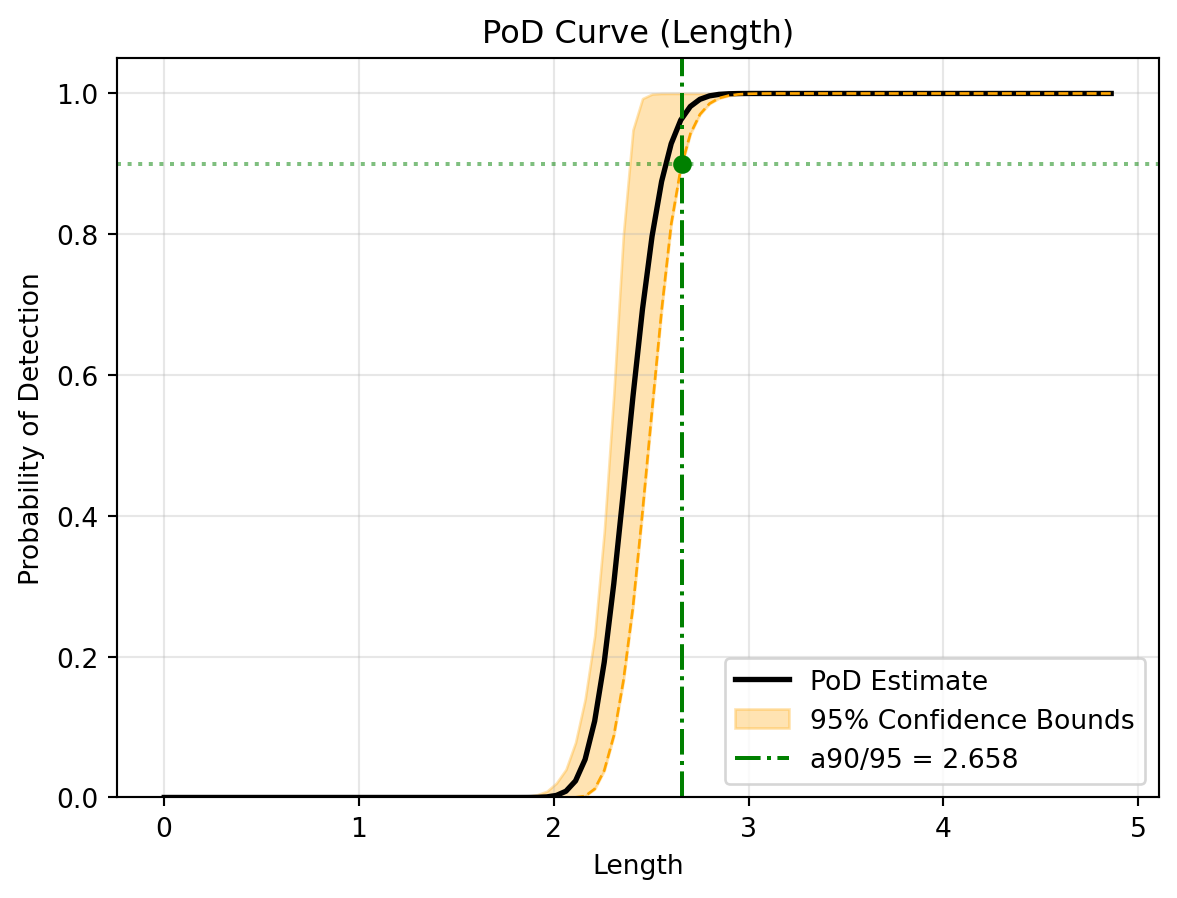
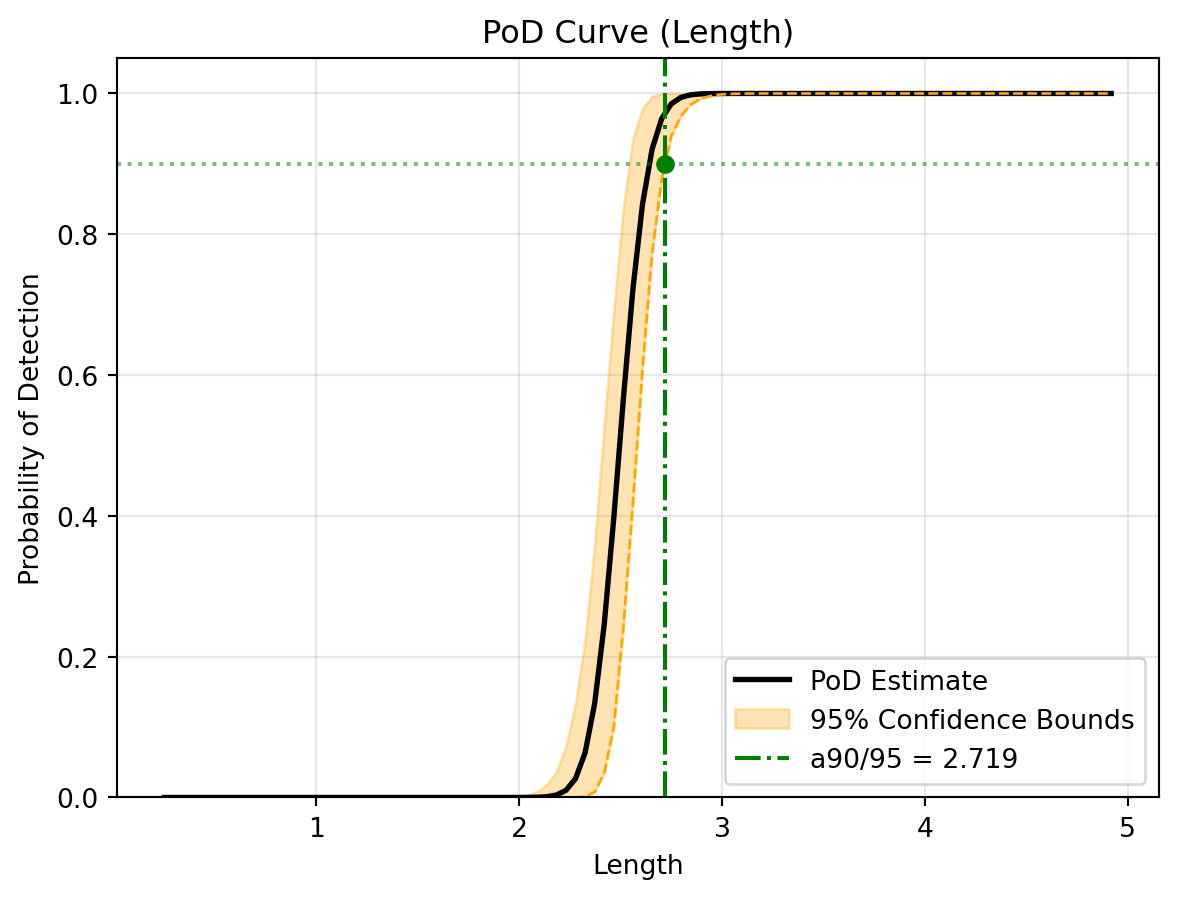
Built site for gh-pages

diff --git a/docs/optimisation.html b/docs/optimisation.html
@@ -212,6 +212,8 @@ pre > code.sourceCode > span > a:first-child::before { text-decoration: underlin
   <li><a href="#connecting-your-external-solver" id="toc-connecting-your-external-solver" class="nav-link" data-scroll-target="#connecting-your-external-solver">Connecting Your External Solver</a>
   <ul class="collapse">
   <li><a href="#the-wrapper-concept" id="toc-the-wrapper-concept" class="nav-link" data-scroll-target="#the-wrapper-concept">The “Wrapper” Concept</a></li>
+  <li><a href="#key-features" id="toc-key-features" class="nav-link" data-scroll-target="#key-features">Key Features</a></li>
+  <li><a href="#core-loop" id="toc-core-loop" class="nav-link" data-scroll-target="#core-loop">Core Loop</a></li>
   </ul></li>
   <li><a href="#the-auto-pilot-workflow" id="toc-the-auto-pilot-workflow" class="nav-link" data-scroll-target="#the-auto-pilot-workflow">The Auto-Pilot Workflow</a>
   <ul class="collapse">
@@ -273,13 +275,26 @@ pre > code.sourceCode > span > a:first-child::before { text-decoration: underlin
 <section id="the-wrapper-concept" class="level3">
 <h3 class="anchored" data-anchor-id="the-wrapper-concept">The “Wrapper” Concept</h3>
 <p>Most heavy physics solvers don’t natively read and write CSVs in exactly the way DigiQual expects. In real life, you will usually write a small “wrapper script” (e.g., <code>run_my_model.py</code> or <code>run_my_model.bat</code>). See <a href="#sec-appendix">Appendix</a> for full examples python and MATLAB.</p>
+</section>
+<section id="key-features" class="level3">
+<h3 class="anchored" data-anchor-id="key-features">Key Features</h3>
+<ul>
+<li><p><strong>Batch Processing:</strong> A critical detail is that the <code>{input}</code> CSV does not contain just one simulation point. It contains an <strong>entire batch</strong> of points (determined by <code>n_start</code> or <code>n_step</code>). Your wrapper script must loop over each row in the CSV, execute the solver for that set of inputs, record the result, and finally save all results to the <code>{output}</code> CSV.</p></li>
+<li><p><strong>Handling Failures (Graveyard):</strong> If the external solver crashes or fails to converge for a specific input row, your wrapper should leave the outcome column blank (or insert <code>NaN</code>) for that row. DigiQual will detect this and automatically add those coordinates to a “graveyard”, ensuring it never tries to sample that exact region again!</p></li>
+</ul>
+</section>
+<section id="core-loop" class="level3">
+<h3 class="anchored" data-anchor-id="core-loop">Core Loop</h3>
 <p>Your wrapper script’s job is to:</p>
 <ol type="1">
 <li>Read the DigiQual <code>{input}</code> CSV.</li>
+<li><strong>Loop</strong> over every row (each row is one simulation design point). For each row:
+<ul>
 <li>Modify your solver’s native input deck (e.g., updating parameters in an Ansys <code>.mac</code> file).</li>
 <li>Trigger the actual solver in headless/batch mode.</li>
-<li>Extract the results (e.g., the signal or stress value) from the solver’s output files.</li>
-<li>Save a clean CSV to the <code>{output}</code> path with the original inputs and the new outcome column appended.</li>
+<li>Extract the results (e.g., the signal or stress value). If it fails, record <code>NaN</code>.</li>
+</ul></li>
+<li>Save a clean CSV to the <code>{output}</code> path containing the <strong>exact original input columns</strong> with the new outcome column appended.</li>
 </ol>
 </section>
 </section>
@@ -290,7 +305,7 @@ pre > code.sourceCode > span > a:first-child::before { text-decoration: underlin
 <h3 class="anchored" data-anchor-id="define-a-mock-solver">1. Define a “Mock” Solver</h3>
 <p>For this tutorial, we will use a Python one-liner as our “solver” instead of a complex physics engine. We use <code>python -c</code> to run this as if it were an external Command Line Interface (CLI) tool.</p>
 <p>Notice how the <code>SOLVER_CMD</code> utilises the <code>{input}</code> and <code>{output}</code> placeholders.</p>
-<div id="5d57a6f5" class="cell" data-execution_count="1">
+<div id="cf266ce7" class="cell" data-execution_count="1">
 <div class="code-copy-outer-scaffold"><div class="sourceCode cell-code" id="cb1"><pre class="sourceCode python code-with-copy"><code class="sourceCode python"><span id="cb1-1"><a href="#cb1-1" aria-hidden="true" tabindex="-1"></a><span class="im">import</span> sys</span>
 <span id="cb1-2"><a href="#cb1-2" aria-hidden="true" tabindex="-1"></a></span>
 <span id="cb1-3"><a href="#cb1-3" aria-hidden="true" tabindex="-1"></a><span class="co"># A complex, non-linear physics model to trigger multiple optimisation loops</span></span>
@@ -306,7 +321,7 @@ pre > code.sourceCode > span > a:first-child::before { text-decoration: underlin
 <section id="configure-the-study" class="level3">
 <h3 class="anchored" data-anchor-id="configure-the-study">2. Configure the Study</h3>
 <p>We define our input variables and the ranges we want to explore.</p>
-<div id="3ed751ef" class="cell" data-execution_count="2">
+<div id="af20290f" class="cell" data-execution_count="2">
 <div class="code-copy-outer-scaffold"><div class="sourceCode cell-code" id="cb2"><pre class="sourceCode python code-with-copy"><code class="sourceCode python"><span id="cb2-1"><a href="#cb2-1" aria-hidden="true" tabindex="-1"></a><span class="im">from</span> digiqual.core <span class="im">import</span> SimulationStudy</span>
 <span id="cb2-2"><a href="#cb2-2" aria-hidden="true" tabindex="-1"></a></span>
 <span id="cb2-3"><a href="#cb2-3" aria-hidden="true" tabindex="-1"></a><span class="co"># Define inputs ranges</span></span>
@@ -320,13 +335,13 @@ pre > code.sourceCode > span > a:first-child::before { text-decoration: underlin
 <h3 class="anchored" data-anchor-id="run-optimisation">3. Run Optimisation</h3>
 <p>This single command handles the entire Active Learning loop:</p>
 <ol type="1">
-<li>Generates 20 initial LHS points (because <code>study.data</code> is currently empty).</li>
-<li>Runs the solver command, passing the temporary input and output file paths.</li>
-<li>Checks diagnostics to see if the data is sufficient.</li>
-<li>If needed, generates up to 10 new points targeting weak areas and repeats (up to 5 times).</li>
-<li>Checks the elapsed time against <code>max_hours</code> to ensure the loop stops safely if the physical time limit is reached.</li>
+<li><strong>Initialisation:</strong> Generates an initial batch of 20 LHS points (<code>n_start=20</code>) and passes them via <code>{input}</code> to your solver command.</li>
+<li><strong>Execution:</strong> Runs the solver command, passing the temporary input and output file paths.</li>
+<li><strong>Diagnostics (Sense):</strong> Checks statistical diagnostics to see if the data coverage and model accuracy are sufficient.</li>
+<li><strong>Refinement (Decide &amp; Act):</strong> If diagnostics fail, generates a targeted batch of 10 new points (<code>n_step=10</code>) focusing on weak areas and repeats the loop (up to <code>max_iter=5</code> times).</li>
+<li><strong>Safety Stop:</strong> Checks the elapsed time against <code>max_hours</code> to ensure the loop stops safely if the physical time limit is reached.</li>
 </ol>
-<div id="68de4d72" class="cell" data-execution_count="3">
+<div id="9c701e21" class="cell" data-execution_count="3">
 <div class="code-copy-outer-scaffold"><div class="sourceCode cell-code" id="cb3"><pre class="sourceCode python code-with-copy"><code class="sourceCode python"><span id="cb3-1"><a href="#cb3-1" aria-hidden="true" tabindex="-1"></a>study.optimise(</span>
 <span id="cb3-2"><a href="#cb3-2" aria-hidden="true" tabindex="-1"></a>    command<span class="op">=</span>SOLVER_CMD,</span>
 <span id="cb3-3"><a href="#cb3-3" aria-hidden="true" tabindex="-1"></a>    ranges<span class="op">=</span>ranges,</span>
@@ -352,31 +367,19 @@ Diagnostics flagged issues. Initiating Active Learning...
 
 --- Iteration 2: Diagnostics Check ---
 &gt;&gt; Model invalid. Refining design...
-Diagnostics flagged issues. Initiating Active Learning...
- -&gt; Strategy: Exploitation (Targeting high uncertainty regions)
---- Running Batch 2 (10 points) ---
-   -&gt; Executing: /Users/jt17630/Documents/DigiQual/.venv/bin/python3 -c 'import pandas as pd, numpy as np; df=pd.read_csv("sim_input.csv"); df["Signal"] = 5 + df["Length"] ** 3 + (df["Length"] * np.random.normal(0, 1, len(df))); df.to_csv("sim_output.csv", index=False)'
+All diagnostic checks passed. No new samples needed.
 
---- Iteration 3: Diagnostics Check ---
-&gt;&gt; Model invalid. Refining design...
-Diagnostics flagged issues. Initiating Active Learning...
- -&gt; Strategy: Exploitation (Targeting high uncertainty regions)
---- Running Batch 3 (10 points) ---
-   -&gt; Executing: /Users/jt17630/Documents/DigiQual/.venv/bin/python3 -c 'import pandas as pd, numpy as np; df=pd.read_csv("sim_input.csv"); df["Signal"] = 5 + df["Length"] ** 3 + (df["Length"] * np.random.normal(0, 1, len(df))); df.to_csv("sim_output.csv", index=False)'
-
---- Iteration 4: Diagnostics Check ---
-
-&gt;&gt;&gt; CONVERGENCE REACHED! &lt;&lt;&lt;
+&gt;&gt; Refinement algorithm converged (no new valid samples needed).
 
 ----------------------------------------
 &gt;&gt;&gt; SEARCH COMPLETE &lt;&lt;&lt;
-Total Time:      0.02 minutes
-Successful Runs: 50
+Total Time:      0.01 minutes
+Successful Runs: 30
 Failed Runs:     0 (in graveyard)
-Total Attempted: 50
+Total Attempted: 30
 ----------------------------------------
 
-Data updated. Total rows: 50</code></pre>
+Data updated. Total rows: 30</code></pre>
 </div>
 </div>
 </section>
@@ -391,19 +394,19 @@ Data updated. Total rows: 50</code></pre>
 <div aria-describedby="fig-optimisation-results-caption-0ceaefa1-69ba-4598-a22c-09a6ac19f8ca">
 <div class="quarto-layout-row">
 <div class="cell-output cell-output-stdout quarto-layout-cell" style="flex-basis: 100.0%;justify-content: flex-start;">
-<pre><code>Total Simulations Run: 50
+<pre><code>Total Simulations Run: 30
 Running validation...
-Validation passed. 50 valid rows ready.
+Validation passed. 30 valid rows ready.
 --- Starting Reliability Analysis (PoI: Length) ---
 1. Selecting Mean Model (Cross-Validation)...
 -&gt; Selected Model: Polynomial (Degree 3)
 2. Fitting Variance Model (Kernel Smoothing)...
-   -&gt; Smoothing Bandwidth: 0.4860
+   -&gt; Smoothing Bandwidth: 0.4670
 3. Inferring Error Distribution (AIC)...
    -&gt; Selected Distribution: norm
 4. Computing PoD Curve...
 5. Running Bootstrap (1000 iterations)...
-   -&gt; a90/95 Reliability Index: 2.658
+   -&gt; a90/95 Reliability Index: 2.719
 --- Analysis Complete ---</code></pre>
 </div>
 </div>
@@ -473,7 +476,7 @@ Figure&nbsp;1: Reliability Analysis Results
 <h3 class="anchored" data-anchor-id="example-a-connecting-a-custom-python-model">Example A: Connecting a Custom Python Model</h3>
 <p>Imagine you have an existing Python file (<code>beam_model.py</code>) that contains a complex physics function. You want DigiQual to optimise it.</p>
 <p><strong>1. The Existing Physics Solver (<code>beam_model.py</code>)</strong> This is your actual engineering code. It doesn’t know anything about CSVs or DigiQual.</p>
-<div id="9b481561" class="cell" data-execution_count="5">
+<div id="304ae8de" class="cell" data-execution_count="5">
 <div class="code-copy-outer-scaffold"><div class="sourceCode cell-code" id="cb7"><pre class="sourceCode python code-with-copy"><code class="sourceCode python"><span id="cb7-1"><a href="#cb7-1" aria-hidden="true" tabindex="-1"></a><span class="co"># beam_model.py</span></span>
 <span id="cb7-2"><a href="#cb7-2" aria-hidden="true" tabindex="-1"></a><span class="kw">def</span> simulate_beam(length, angle):</span>
 <span id="cb7-3"><a href="#cb7-3" aria-hidden="true" tabindex="-1"></a>    <span class="co">"""A complex, proprietary physics calculation."""</span></span>
@@ -482,7 +485,7 @@ Figure&nbsp;1: Reliability Analysis Results
 <span id="cb7-6"><a href="#cb7-6" aria-hidden="true" tabindex="-1"></a>    <span class="cf">return</span> signal_strength</span></code></pre></div><button title="Copy to Clipboard" class="code-copy-button"><i class="bi"></i></button></div>
 </div>
 <p><strong>2. The Wrapper Script (<code>python_wrapper.py</code>)</strong> This script acts as the bridge. It reads the CSV from the command line arguments, loops through the data to run the solver, and saves the result.</p>
-<div id="faa5a0bc" class="cell" data-execution_count="6">
+<div id="178c808a" class="cell" data-execution_count="6">
 <div class="code-copy-outer-scaffold"><div class="sourceCode cell-code" id="cb8"><pre class="sourceCode python code-with-copy"><code class="sourceCode python"><span id="cb8-1"><a href="#cb8-1" aria-hidden="true" tabindex="-1"></a><span class="co"># python_wrapper.py</span></span>
 <span id="cb8-2"><a href="#cb8-2" aria-hidden="true" tabindex="-1"></a><span class="im">import</span> sys</span>
 <span id="cb8-3"><a href="#cb8-3" aria-hidden="true" tabindex="-1"></a><span class="im">import</span> pandas <span class="im">as</span> pd</span>
@@ -511,7 +514,7 @@ Figure&nbsp;1: Reliability Analysis Results
 <span id="cb8-26"><a href="#cb8-26" aria-hidden="true" tabindex="-1"></a>    main()</span></code></pre></div><button title="Copy to Clipboard" class="code-copy-button"><i class="bi"></i></button></div>
 </div>
 <p><strong>3. The DigiQual Command</strong> In your main optimisation script, you define the <code>SOLVER_CMD</code> to call the Python wrapper, passing the placeholders as arguments.</p>
-<div id="7ec65cc7" class="cell" data-execution_count="7">
+<div id="84a952b3" class="cell" data-execution_count="7">
 <div class="code-copy-outer-scaffold"><div class="sourceCode cell-code" id="cb9"><pre class="sourceCode python code-with-copy"><code class="sourceCode python"><span id="cb9-1"><a href="#cb9-1" aria-hidden="true" tabindex="-1"></a><span class="co"># In your main study script</span></span>
 <span id="cb9-2"><a href="#cb9-2" aria-hidden="true" tabindex="-1"></a>SOLVER_CMD <span class="op">=</span> <span class="st">"python python_wrapper.py </span><span class="sc">{input}</span><span class="st"> </span><span class="sc">{output}</span><span class="st">"</span></span>
 <span id="cb9-3"><a href="#cb9-3" aria-hidden="true" tabindex="-1"></a><span class="co"># study.optimise(command=SOLVER_CMD, ...)</span></span></code></pre></div><button title="Copy to Clipboard" class="code-copy-button"><i class="bi"></i></button></div>
@@ -552,7 +555,7 @@ Figure&nbsp;1: Reliability Analysis Results
 <span id="cb11-22"><a href="#cb11-22" aria-hidden="true" tabindex="-1"></a>    <span class="va">exit</span><span class="op">;</span></span>
 <span id="cb11-23"><a href="#cb11-23" aria-hidden="true" tabindex="-1"></a><span class="kw">end</span></span></code></pre></div><button title="Copy to Clipboard" class="code-copy-button"><i class="bi"></i></button></div>
 <p><strong>3. The DigiQual Command</strong> We construct a command that launches MATLAB without the graphical interface (<code>-batch</code>), tells it to run our wrapper, and safely injects the <code>{input}</code> and <code>{output}</code> paths as strings.</p>
-<div id="5db78135" class="cell" data-execution_count="8">
+<div id="d84c7af3" class="cell" data-execution_count="8">
 <div class="code-copy-outer-scaffold"><div class="sourceCode cell-code" id="cb12"><pre class="sourceCode python code-with-copy"><code class="sourceCode python"><span id="cb12-1"><a href="#cb12-1" aria-hidden="true" tabindex="-1"></a><span class="co"># In your main study script</span></span>
 <span id="cb12-2"><a href="#cb12-2" aria-hidden="true" tabindex="-1"></a>SOLVER_CMD <span class="op">=</span> <span class="st">"matlab -batch </span><span class="ch">\"</span><span class="st">matlab_wrapper('</span><span class="sc">{input}</span><span class="st">', '</span><span class="sc">{output}</span><span class="st">')</span><span class="ch">\"</span><span class="st">"</span></span>
 <span id="cb12-3"><a href="#cb12-3" aria-hidden="true" tabindex="-1"></a><span class="co"># study.optimise(command=SOLVER_CMD, ...)</span></span></code></pre></div><button title="Copy to Clipboard" class="code-copy-button"><i class="bi"></i></button></div>

diff --git a/docs/qs_class.html b/docs/qs_class.html
@@ -252,7 +252,7 @@ pre > code.sourceCode > span > a:first-child::before { text-decoration: underlin
 <section id="setup-flawed-data-generation" class="level3">
 <h3 class="anchored" data-anchor-id="setup-flawed-data-generation">1. Setup &amp; “Flawed” Data Generation</h3>
 <p>First, we define our physics simulation and create a dataset with a deliberate gap (missing data between 3mm and 7mm).</p>
-<div id="530b1b97" class="cell" data-execution_count="1">
+<div id="e6b88977" class="cell" data-execution_count="1">
 <div class="code-copy-outer-scaffold"><div class="sourceCode cell-code" id="cb1"><pre class="sourceCode python code-with-copy"><code class="sourceCode python"><span id="cb1-1"><a href="#cb1-1" aria-hidden="true" tabindex="-1"></a><span class="im">import</span> numpy <span class="im">as</span> np</span>
 <span id="cb1-2"><a href="#cb1-2" aria-hidden="true" tabindex="-1"></a><span class="im">import</span> pandas <span class="im">as</span> pd</span>
 <span id="cb1-3"><a href="#cb1-3" aria-hidden="true" tabindex="-1"></a><span class="im">import</span> matplotlib.pyplot <span class="im">as</span> plt</span>
@@ -312,7 +312,7 @@ pre > code.sourceCode > span > a:first-child::before { text-decoration: underlin
 <section id="diagnosis-detecting-the-issue" class="level3">
 <h3 class="anchored" data-anchor-id="diagnosis-detecting-the-issue">2. Diagnosis (Detecting the Issue)</h3>
 <p>We now ask the study manager to diagnose the health of our experiment. We expect it to flag the Input Coverage test because of the gap we created.</p>
-<div id="5848f3c5" class="cell" data-execution_count="2">
+<div id="bfe83998" class="cell" data-execution_count="2">
 <div class="code-copy-outer-scaffold"><div class="sourceCode cell-code" id="cb3"><pre class="sourceCode python code-with-copy"><code class="sourceCode python"><span id="cb3-1"><a href="#cb3-1" aria-hidden="true" tabindex="-1"></a>study.diagnose()</span></code></pre></div><button title="Copy to Clipboard" class="code-copy-button"><i class="bi"></i></button></div>
 <div class="cell-output cell-output-stdout">
 <pre><code>Running validation...
@@ -341,7 +341,7 @@ Checking sample sufficiency...</code></pre>
 <td>Input Coverage</td>
 <td>Length</td>
 <td>Max Gap Ratio</td>
-<td>0.4122</td>
+<td>0.4233</td>
 <td>&lt; 0.20</td>
 <td>False</td>
 </tr>
@@ -350,7 +350,7 @@ Checking sample sufficiency...</code></pre>
 <td>Input Coverage</td>
 <td>Angle</td>
 <td>Max Gap Ratio</td>
-<td>0.0648</td>
+<td>0.0735</td>
 <td>&lt; 0.20</td>
 <td>True</td>
 </tr>
@@ -359,7 +359,7 @@ Checking sample sufficiency...</code></pre>
 <td>Input Coverage</td>
 <td>Roughness</td>
 <td>Max Gap Ratio</td>
-<td>0.0575</td>
+<td>0.0481</td>
 <td>&lt; 0.20</td>
 <td>True</td>
 </tr>
@@ -368,7 +368,7 @@ Checking sample sufficiency...</code></pre>
 <td>Model Fit (CV)</td>
 <td>Signal</td>
 <td>Mean R2 Score</td>
-<td>0.9972</td>
+<td>0.9970</td>
 <td>&gt; 0.50</td>
 <td>True</td>
 </tr>
@@ -377,7 +377,7 @@ Checking sample sufficiency...</code></pre>
 <td>Bootstrap Convergence</td>
 <td>Signal</td>
 <td>Avg CV (Rel Std Dev)</td>
-<td>0.0192</td>
+<td>0.0130</td>
 <td>&lt; 0.15</td>
 <td>True</td>
 </tr>
@@ -386,7 +386,7 @@ Checking sample sufficiency...</code></pre>
 <td>Bootstrap Convergence</td>
 <td>Signal</td>
 <td>Max CV (Rel Std Dev)</td>
-<td>0.0405</td>
+<td>0.0258</td>
 <td>&lt; 0.30</td>
 <td>True</td>
 </tr>
@@ -400,7 +400,7 @@ Checking sample sufficiency...</code></pre>
 <section id="adaptive-refinement-the-fix" class="level3">
 <h3 class="anchored" data-anchor-id="adaptive-refinement-the-fix">3. Adaptive Refinement (The Fix)</h3>
 <p>Instead of manually guessing where to add points, we use refine(). The study manager automatically detects the gap and generates targeted samples to fill it. In this example, we run the <code>apply_physics()</code> function, but in reality, users should feed the new samples dataframe into their simulation engine to calculate the outcome variable. Users can then add those results into the SimulationStudy class using the <code>add_data()</code> method.</p>
-<div id="38e77506" class="cell" data-execution_count="3">
+<div id="78ddb42d" class="cell" data-execution_count="3">
 <div class="code-copy-outer-scaffold"><div class="sourceCode cell-code" id="cb5"><pre class="sourceCode python code-with-copy"><code class="sourceCode python"><span id="cb5-1"><a href="#cb5-1" aria-hidden="true" tabindex="-1"></a><span class="co"># Generate active learning samples (20 points to fill the gap)</span></span>
 <span id="cb5-2"><a href="#cb5-2" aria-hidden="true" tabindex="-1"></a>new_samples <span class="op">=</span> study.refine(n_points<span class="op">=</span><span class="dv">20</span>)</span>
 <span id="cb5-3"><a href="#cb5-3" aria-hidden="true" tabindex="-1"></a></span>
@@ -417,7 +417,7 @@ Data updated. Total rows: 100</code></pre>
 </div>
 </div>
 <p>Now we verify that the issue is resolved:</p>
-<div id="31eab517" class="cell" data-execution_count="4">
+<div id="22adc4ae" class="cell" data-execution_count="4">
 <div class="code-copy-outer-scaffold"><div class="sourceCode cell-code" id="cb7"><pre class="sourceCode python code-with-copy"><code class="sourceCode python"><span id="cb7-1"><a href="#cb7-1" aria-hidden="true" tabindex="-1"></a><span class="co"># Re-run diagnostics to confirm the green light</span></span>
 <span id="cb7-2"><a href="#cb7-2" aria-hidden="true" tabindex="-1"></a>study.diagnose()</span></code></pre></div><button title="Copy to Clipboard" class="code-copy-button"><i class="bi"></i></button></div>
 <div class="cell-output cell-output-stdout">
@@ -447,7 +447,7 @@ Checking sample sufficiency...</code></pre>
 <td>Input Coverage</td>
 <td>Length</td>
 <td>Max Gap Ratio</td>
-<td>0.0541</td>
+<td>0.1174</td>
 <td>&lt; 0.20</td>
 <td>True</td>
 </tr>
@@ -456,7 +456,7 @@ Checking sample sufficiency...</code></pre>
 <td>Input Coverage</td>
 <td>Angle</td>
 <td>Max Gap Ratio</td>
-<td>0.0639</td>
+<td>0.0655</td>
 <td>&lt; 0.20</td>
 <td>True</td>
 </tr>
@@ -465,7 +465,7 @@ Checking sample sufficiency...</code></pre>
 <td>Input Coverage</td>
 <td>Roughness</td>
 <td>Max Gap Ratio</td>
-<td>0.0507</td>
+<td>0.0429</td>
 <td>&lt; 0.20</td>
 <td>True</td>
 </tr>
@@ -474,7 +474,7 @@ Checking sample sufficiency...</code></pre>
 <td>Model Fit (CV)</td>
 <td>Signal</td>
 <td>Mean R2 Score</td>
-<td>0.9959</td>
+<td>0.9971</td>
 <td>&gt; 0.50</td>
 <td>True</td>
 </tr>
@@ -483,7 +483,7 @@ Checking sample sufficiency...</code></pre>
 <td>Bootstrap Convergence</td>
 <td>Signal</td>
 <td>Avg CV (Rel Std Dev)</td>
-<td>0.0224</td>
+<td>0.0123</td>
 <td>&lt; 0.15</td>
 <td>True</td>
 </tr>
@@ -492,7 +492,7 @@ Checking sample sufficiency...</code></pre>
 <td>Bootstrap Convergence</td>
 <td>Signal</td>
 <td>Max CV (Rel Std Dev)</td>
-<td>0.0517</td>
+<td>0.0256</td>
 <td>&lt; 0.30</td>
 <td>True</td>
 </tr>
@@ -513,14 +513,14 @@ Checking sample sufficiency...</code></pre>
 <div class="cell-output cell-output-stdout">
 <pre><code>--- Starting Reliability Analysis (PoI: Length) ---
 1. Selecting Mean Model (Cross-Validation)...
--&gt; Selected Model: Kriging (Gaussian Process)
+-&gt; Selected Model: Polynomial (Degree 6)
 2. Fitting Variance Model (Kernel Smoothing)...
-   -&gt; Smoothing Bandwidth: 0.9849
+   -&gt; Smoothing Bandwidth: 0.9887
 3. Inferring Error Distribution (AIC)...
    -&gt; Selected Distribution: logistic
 4. Computing PoD Curve...
 5. Running Bootstrap (1000 iterations)...
-   -&gt; a90/95 Reliability Index: 2.995
+   -&gt; a90/95 Reliability Index: 3.065
 --- Analysis Complete ---</code></pre>
 </div>
 </div>

diff --git a/docs/gui.html b/docs/gui.html
@@ -264,7 +264,7 @@ pre > code.sourceCode > span > a:first-child::before { text-decoration: underlin
 <section id="option-b-from-a-python-script" class="level3">
 <h3 class="anchored" data-anchor-id="option-b-from-a-python-script">Option B: From a Python Script</h3>
 <p>If you are already working inside a Python script or a Jupyter environment, you can launch it locally using the built-in UI function.</p>
-<div id="85b2aee7" class="cell" data-execution_count="1">
+<div id="060f154a" class="cell" data-execution_count="1">
 <div class="code-copy-outer-scaffold"><div class="sourceCode cell-code" id="cb4"><pre class="sourceCode python code-with-copy"><code class="sourceCode python"><span id="cb4-1"><a href="#cb4-1" aria-hidden="true" tabindex="-1"></a><span class="co"># Launch the local application</span></span>
 <span id="cb4-2"><a href="#cb4-2" aria-hidden="true" tabindex="-1"></a><span class="im">from</span> digiqual <span class="im">import</span> dq_ui</span>
 <span id="cb4-3"><a href="#cb4-3" aria-hidden="true" tabindex="-1"></a></span>
